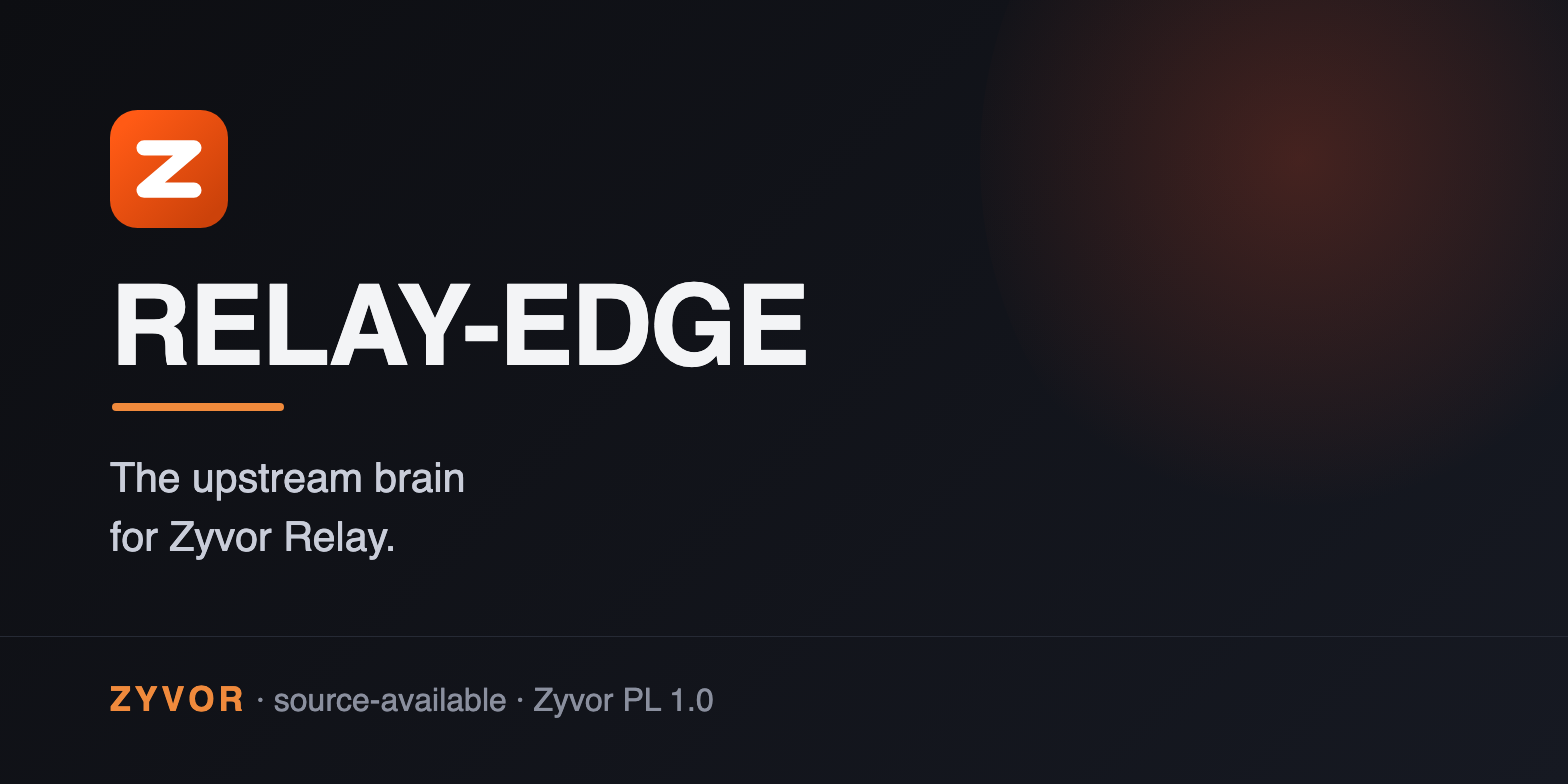
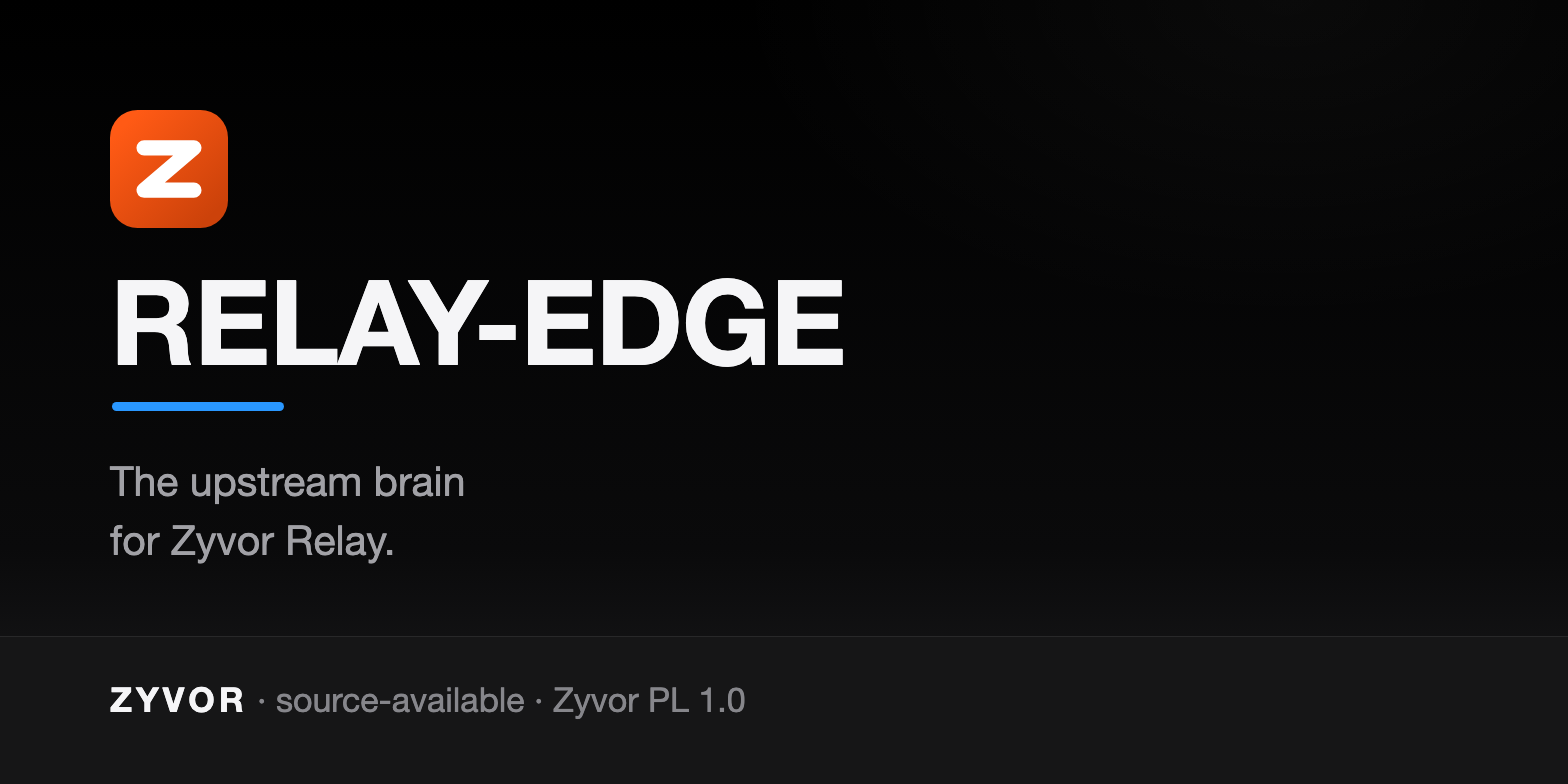
docs: remove community tier, apple-dark social cards

diff --git a/docs/social/relay-edge-social-card.html b/docs/social/relay-edge-social-card.html
@@ -9,12 +9,12 @@
   Build:  ./docs/social/build-social-card.sh   ->  relay-edge-social-card.jpg
 -->
 <style>
-  :root { --ink:#0d0d0c; --soft:#5a544c; --signal:#ff5a15; --deep:#cc420a; --line:#e7ded2; --warm:#fbf7f2; --pale:#fff1e9;
-    --blue:#2b5fd9; --green:#1f7a4d;
+  :root { --ink:#f5f5f7; --soft:#86868b; --signal:#2997ff; --btn:#0071e3; --deep:#2997ff; --line:rgba(255,255,255,.08); --warm:#000; --pale:#1d1d1f;
+    --blue:#5e5ce6; --green:#248a3d;
     --sans:'Helvetica Neue',Helvetica,Arial,sans-serif; --mono:'SF Mono',Menlo,Consolas,monospace; }
   * { box-sizing:border-box; }
   html,body { margin:0; padding:0; }
-  body { width:1600px; height:900px; overflow:hidden; background:var(--warm); color:var(--ink); font-family:var(--sans); position:relative; }
+  body { width:1600px; height:900px; overflow:hidden; background:radial-gradient(900px 520px at 78% 0%,rgba(255,255,255,.04),transparent 62%),#000; color:var(--ink); font-family:var(--sans); position:relative; }
   .bar { position:absolute; left:0; top:0; bottom:0; width:14px; background:var(--signal); }
   .wrap { position:absolute; left:72px; right:64px; top:48px; bottom:40px; display:flex; flex-direction:column; }
 
@@ -25,10 +25,10 @@
 
   h1 { margin:26px 0 0; font-size:64px; line-height:1.06; letter-spacing:-.025em; font-weight:700; max-width:1440px; }
   h1 em { font-style:normal; color:var(--signal); }
-  .sub { margin:16px 0 0; font-size:27px; line-height:1.36; color:#26231f; max-width:1320px; }
+  .sub { margin:16px 0 0; font-size:27px; line-height:1.36; color:#a1a1a6; max-width:1320px; }
 
   .flow { margin-top:34px; display:grid; grid-template-columns:repeat(5,1fr); gap:34px; }
-  .step { position:relative; background:#fff; border:2.5px solid var(--c); border-radius:16px; padding:18px 20px 18px 24px; min-height:222px; }
+  .step { position:relative; background:#1d1d1f; border:2.5px solid var(--c); border-radius:16px; padding:18px 20px 18px 24px; min-height:222px; }
   .step::before { content:""; position:absolute; left:0; top:0; bottom:0; width:9px; background:var(--c); border-radius:13px 0 0 13px; }
   .step:not(:last-child)::after { content:""; position:absolute; right:-31px; top:50%; width:0; height:0; margin-top:-11px;
     border-left:16px solid var(--soft); border-top:11px solid transparent; border-bottom:11px solid transparent; }
@@ -36,17 +36,17 @@
   .n { float:right; width:34px; height:34px; border-radius:50%; background:var(--c); color:#fff; font-weight:700; font-size:19px; line-height:34px; text-align:center; }
   .step h3 { margin:14px 0 8px; font-size:27px; line-height:1.14; letter-spacing:-.01em; }
   .step p { margin:0; font-size:20.5px; line-height:1.34; color:var(--soft); }
-  .k { --c:var(--signal); } .a { --c:var(--ink); } .c { --c:var(--blue); } .o { --c:var(--green); } .o2 { --c:var(--deep); }
+  .k { --c:var(--btn); } .a { --c:#86868b; } .c { --c:var(--blue); } .o { --c:var(--green); } .o2 { --c:var(--deep); }
 
-  .attr { margin-top:22px; display:flex; align-items:center; gap:16px; background:var(--ink); color:#f3ede4; border-radius:12px; padding:13px 22px; font-family:var(--mono); font-size:22px; white-space:nowrap; }
+  .attr { margin-top:22px; display:flex; align-items:center; gap:16px; background:#1d1d1f; border:1px solid rgba(255,255,255,.08); color:#f5f5f7; border-radius:12px; padding:13px 22px; font-family:var(--mono); font-size:22px; white-space:nowrap; }
   .attr .tag { color:var(--signal); font-weight:700; letter-spacing:.1em; font-size:16px; }
-  .attr .why { margin-left:auto; color:#a39a8d; font-size:15px; letter-spacing:.06em; text-transform:uppercase; }
+  .attr .why { margin-left:auto; color:#86868b; font-size:15px; letter-spacing:.06em; text-transform:uppercase; }
 
   .chips { margin-top:auto; padding-top:22px; display:flex; flex-wrap:wrap; gap:10px; }
-  .chip { font-size:20px; font-weight:700; padding:5px 14px; border-radius:20px; background:var(--signal); color:#fff; letter-spacing:.02em; border:2px solid var(--signal); }
-  .chip.g { background:#fff; color:var(--deep); border:2px solid var(--signal); }
+  .chip { font-size:20px; font-weight:700; padding:5px 14px; border-radius:20px; background:var(--btn); color:#fff; letter-spacing:.02em; border:2px solid var(--btn); }
+  .chip.g { background:#1d1d1f; color:var(--deep); border:2px solid var(--signal); }
 
-  .foot { margin-top:18px; padding-top:14px; border-top:3px solid var(--ink); display:flex; align-items:center; font-family:var(--mono); font-size:22px; color:var(--soft); }
+  .foot { margin-top:18px; padding-top:14px; border-top:1px solid rgba(255,255,255,.12); display:flex; align-items:center; font-family:var(--mono); font-size:22px; color:var(--soft); }
   .foot b { color:var(--ink); }
   .foot .r { margin-left:auto; }
 </style>

diff --git a/docs/social/relay-edge-share-card.html b/docs/social/relay-edge-share-card.html
@@ -8,11 +8,11 @@
   Build:  ./docs/social/build-social-card.sh
 -->
 <style>
-  :root { --ink:#0d0d0c; --soft:#5a544c; --signal:#ff5a15; --deep:#cc420a; --warm:#fbf7f2;
+  :root { --ink:#f5f5f7; --soft:#86868b; --signal:#2997ff; --btn:#0071e3; --deep:#2997ff; --warm:#000;
     --sans:'Helvetica Neue',Helvetica,Arial,sans-serif; --mono:'SF Mono',Menlo,Consolas,monospace; }
   * { box-sizing:border-box; }
   html,body { margin:0; padding:0; }
-  body { width:1200px; height:630px; overflow:hidden; background:var(--warm); color:var(--ink); font-family:var(--sans); position:relative; }
+  body { width:1200px; height:630px; overflow:hidden; background:radial-gradient(900px 520px at 78% 0%,rgba(255,255,255,.04),transparent 62%),#000; color:var(--ink); font-family:var(--sans); position:relative; }
   .bar { position:absolute; left:0; top:0; bottom:0; width:12px; background:var(--signal); }
   .wrap { position:absolute; left:56px; right:48px; top:40px; bottom:36px; display:flex; flex-direction:column; }
 
@@ -23,13 +23,13 @@
 
   h1 { margin:36px 0 0; font-size:48px; line-height:1.08; letter-spacing:-.025em; font-weight:700; max-width:1080px; }
   h1 em { font-style:normal; color:var(--signal); }
-  .sub { margin:18px 0 0; font-size:24px; line-height:1.4; color:#26231f; max-width:980px; }
+  .sub { margin:18px 0 0; font-size:24px; line-height:1.4; color:#a1a1a6; max-width:980px; }
 
   .chips { margin-top:auto; display:flex; flex-wrap:wrap; gap:10px; padding-bottom:18px; }
-  .chip { font-size:18px; font-weight:700; padding:6px 14px; border-radius:20px; background:var(--signal); color:#fff; border:2px solid var(--signal); }
-  .chip.g { background:#fff; color:var(--deep); border:2px solid var(--signal); }
+  .chip { font-size:18px; font-weight:700; padding:6px 14px; border-radius:20px; background:var(--btn); color:#fff; border:2px solid var(--btn); }
+  .chip.g { background:#1d1d1f; color:var(--deep); border:2px solid var(--signal); }
 
-  .foot { padding-top:14px; border-top:3px solid var(--ink); display:flex; align-items:center; font-family:var(--mono); font-size:20px; color:var(--soft); }
+  .foot { padding-top:14px; border-top:1px solid rgba(255,255,255,.12); display:flex; align-items:center; font-family:var(--mono); font-size:20px; color:var(--soft); }
   .foot b { color:var(--ink); }
   .foot .r { margin-left:auto; }
 </style>

diff --git a/docs/social/relay-edge-preview.html b/docs/social/relay-edge-preview.html
@@ -1,0 +1,21 @@
+<!doctype html>
+<html lang="en"><head><meta charset="utf-8"><title>RELAY-EDGE social preview</title>
+<style>
+* { box-sizing:border-box; }
+html,body { margin:0; padding:0; }
+body { width:1568px; height:784px; overflow:hidden; position:relative; color:#f5f5f7;
+  font-family:'Helvetica Neue',Helvetica,Arial,sans-serif;
+  background:radial-gradient(900px 520px at 82% 0%,rgba(255,255,255,.04),transparent 62%),linear-gradient(180deg,#000 0%,#0a0a0b 70%,#1d1d1f 100%); }
+.mark { position:absolute; left:110px; top:110px; width:118px; height:118px; }
+h1 { position:absolute; left:110px; top:262px; margin:0; font-size:118px; line-height:1; font-weight:700; letter-spacing:-.01em; }
+.rule { position:absolute; left:112px; top:402px; width:172px; height:9px; border-radius:5px; background:#2997ff; }
+p { position:absolute; left:110px; top:452px; margin:0; font-size:41px; line-height:59px; color:#a1a1a6; }
+.foot { position:absolute; left:0; right:0; bottom:0; height:148px; border-top:1px solid rgba(255,255,255,.08); background:#161617; }
+.foot div { position:absolute; left:110px; top:42px; font-size:34px; color:#86868b; }
+.foot b { color:#f5f5f7; letter-spacing:.12em; font-size:34px; }
+</style></head><body>
+<svg class="mark" viewBox="0 0 64 64" aria-hidden="true"><defs><linearGradient id="zb" x1="8" y1="8" x2="56" y2="56" gradientUnits="userSpaceOnUse"><stop offset="0" stop-color="#ff5a15"/><stop offset="1" stop-color="#cc420a"/></linearGradient></defs><rect width="64" height="64" rx="15" fill="url(#zb)"/><path d="M18.5,20.5 45.5,20.5 18.5,43.5 45.5,43.5" fill="none" stroke="#fff" stroke-width="8.3" stroke-linecap="round" stroke-linejoin="round"/></svg>
+<h1>RELAY-EDGE</h1><div class="rule"></div>
+<p>The upstream brain<br>for Zyvor Relay.</p>
+<div class="foot"><div><b>ZYVOR</b> &middot; source-available &middot; Zyvor PL 1.0</div></div>
+</body></html>

diff --git a/docs/SUBSCRIPTION-MODEL.md b/docs/SUBSCRIPTION-MODEL.md
@@ -1,12 +1,11 @@
 # relay-edge: support subscriptions
 
-relay-edge is source-available software. Non-production use is free under the Zyvor Production License v1.0; production use requires a commercial license (sales@zyvor.dev).
+relay-edge is source-available software. A commercial license is required to run it (sales@zyvor.dev); a 30-day trial key is how to evaluate.
 
 Teams that want supported releases and defined response targets can buy an annual **support subscription** from Zyvor.
 
 | Plan | What you get | Coverage |
 |------|--------------|----------|
-| Community | The software, community documentation and public issue tracking | No contracted response target |
 | Standard | Deployment and upgrade guidance, defined supported configuration | Business hours |
 | Supported | Standard plus priority queue and incident triage | Business hours, faster response |
 | Enterprise | Supported plus a named technical contact and 24x7 critical intake | One-hour initial response target for critical issues |
@@ -26,7 +25,7 @@ Prices are in the [Pricing](#pricing) section below; custom pricing: contact [sa
 
 ## Pricing
 
-The support subscription is priced per device per year, on one ladder shared by Fleet, Relay, Device Agent, OTA and Nodra, with an annual minimum of USD 5,000 (INR 495,600 incl. GST in India) that applies to every step. Non-production use of the software is free under the Zyvor Production License v1.0; production use requires a commercial license.
+The support subscription is priced per device per year, on one ladder shared by Fleet, Relay, Device Agent, OTA and Nodra, with an annual minimum of USD 5,000 (INR 495,600 incl. GST in India) that applies to every step. A commercial license is required to run the software.
 
 | Devices | Elsewhere (USD, excl. tax) | India (INR, incl. 18% GST) |
 |---|---|---|

diff --git a/README.md b/README.md
@@ -393,7 +393,7 @@ scope questions. Troubleshooting lives in
 
 ## Support
 
-Non-production use is free under the Zyvor Production License v1.0; production use requires a commercial license (sales@zyvor.dev). If it helps you, you can donate any amount you like: <https://rzp.io/rzp/utwdYh3>. A donation is voluntary and supports development and maintenance. It is not a purchase: it buys no support, SLA, features, priority or license, and it is not tax-deductible (Zyvor AI Labs Private Limited is a company, not a charity). Support contracts are separate: [sales@zyvor.dev](mailto:sales@zyvor.dev).
+A commercial license is required to run it (sales@zyvor.dev); a 30-day trial key is how to evaluate. If it helps you, you can donate any amount you like: <https://rzp.io/rzp/utwdYh3>. A donation is voluntary and supports development and maintenance. It is not a purchase: it buys no support, SLA, features, priority or license, and it is not tax-deductible (Zyvor AI Labs Private Limited is a company, not a charity). Support contracts are separate: [sales@zyvor.dev](mailto:sales@zyvor.dev).
 
 ## License
 

diff --git a/docs/FAQ.md b/docs/FAQ.md
@@ -9,9 +9,8 @@ decided to adopt it.
 
 ## Licensing & cost
 
-**Is it really free?** Non-production use (evaluation, development, testing, research,
-education) is free under the Zyvor Production License v1.0. Production use
-requires a commercial license from Zyvor AI Labs (sales@zyvor.dev,
+**Do I need a license?** Yes. Running it requires a commercial
+license from Zyvor AI Labs (sales@zyvor.dev,
 https://zyvor.dev/buy; a 30-day trial key is available). Notices must be
 preserved. See the README's [License](https://github.com/zyvorai/relay-edge/blob/main/README.md#license)
 section.
